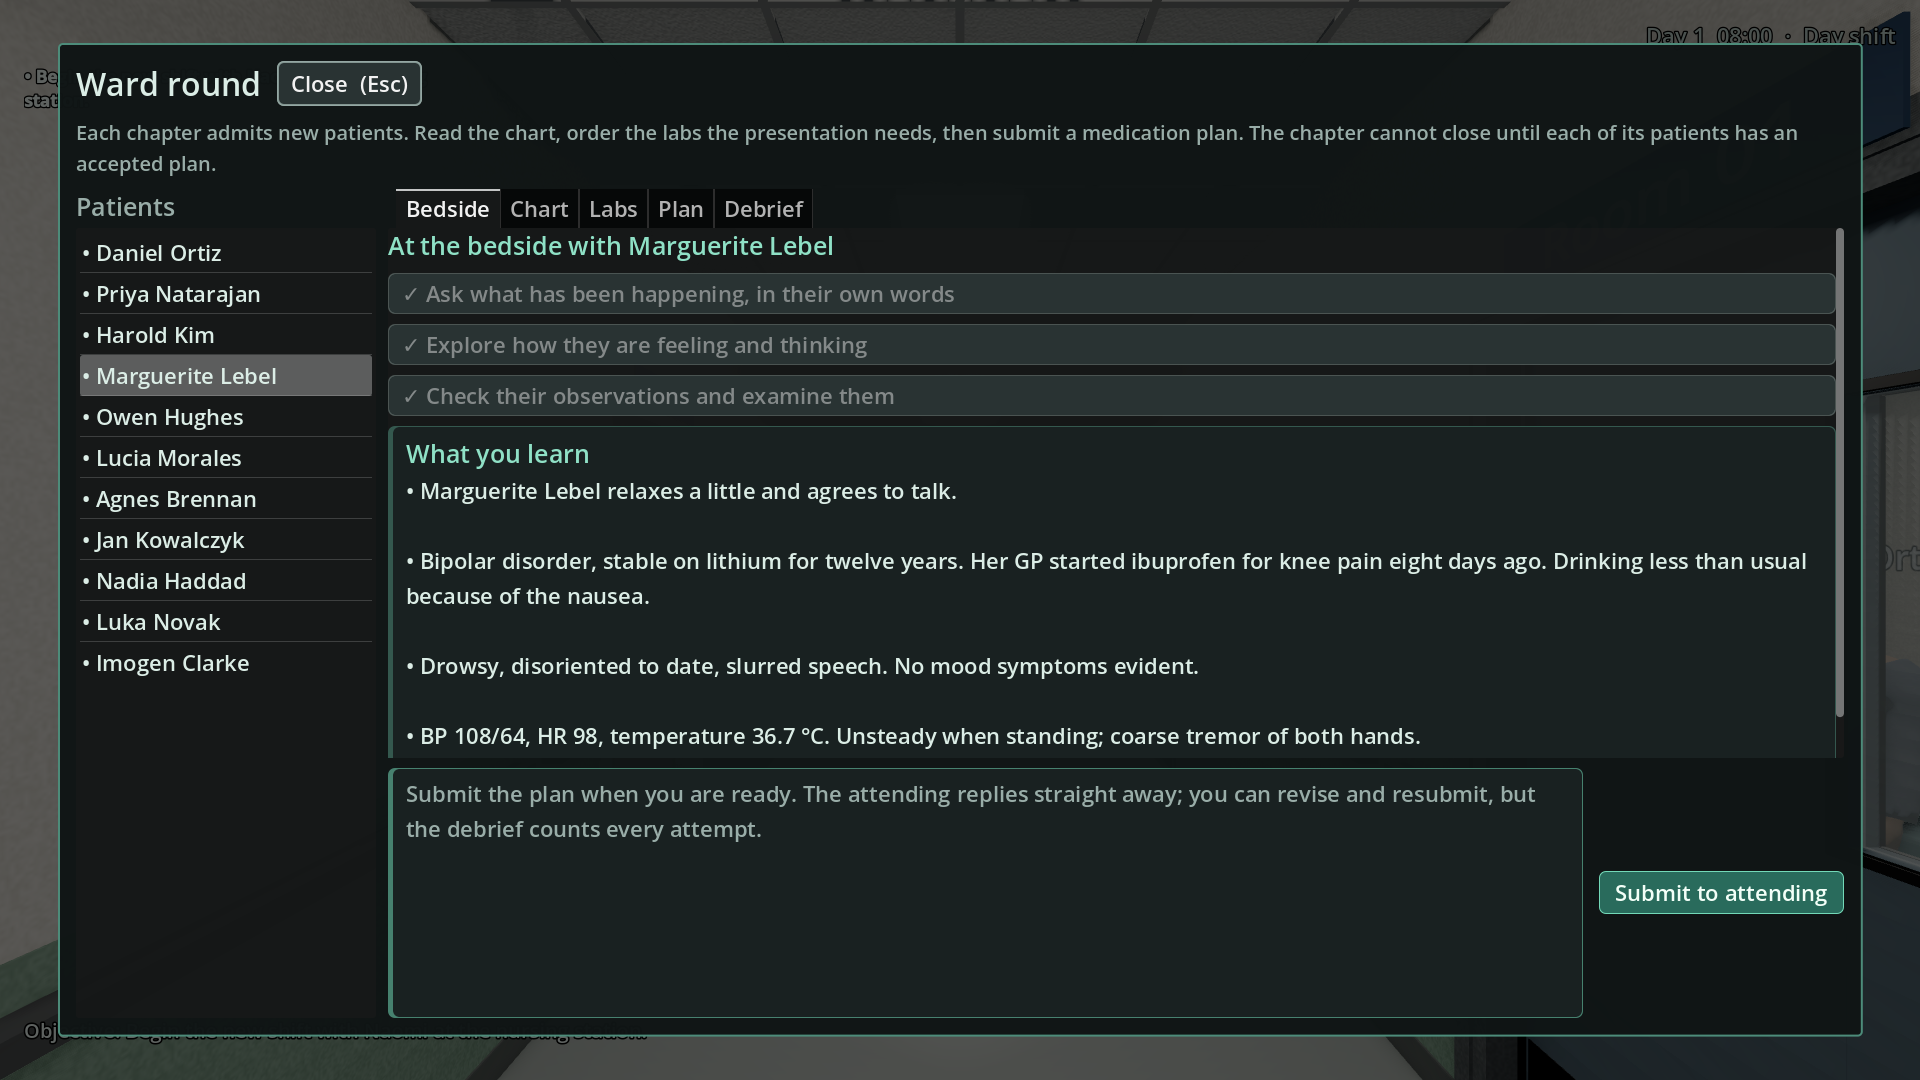
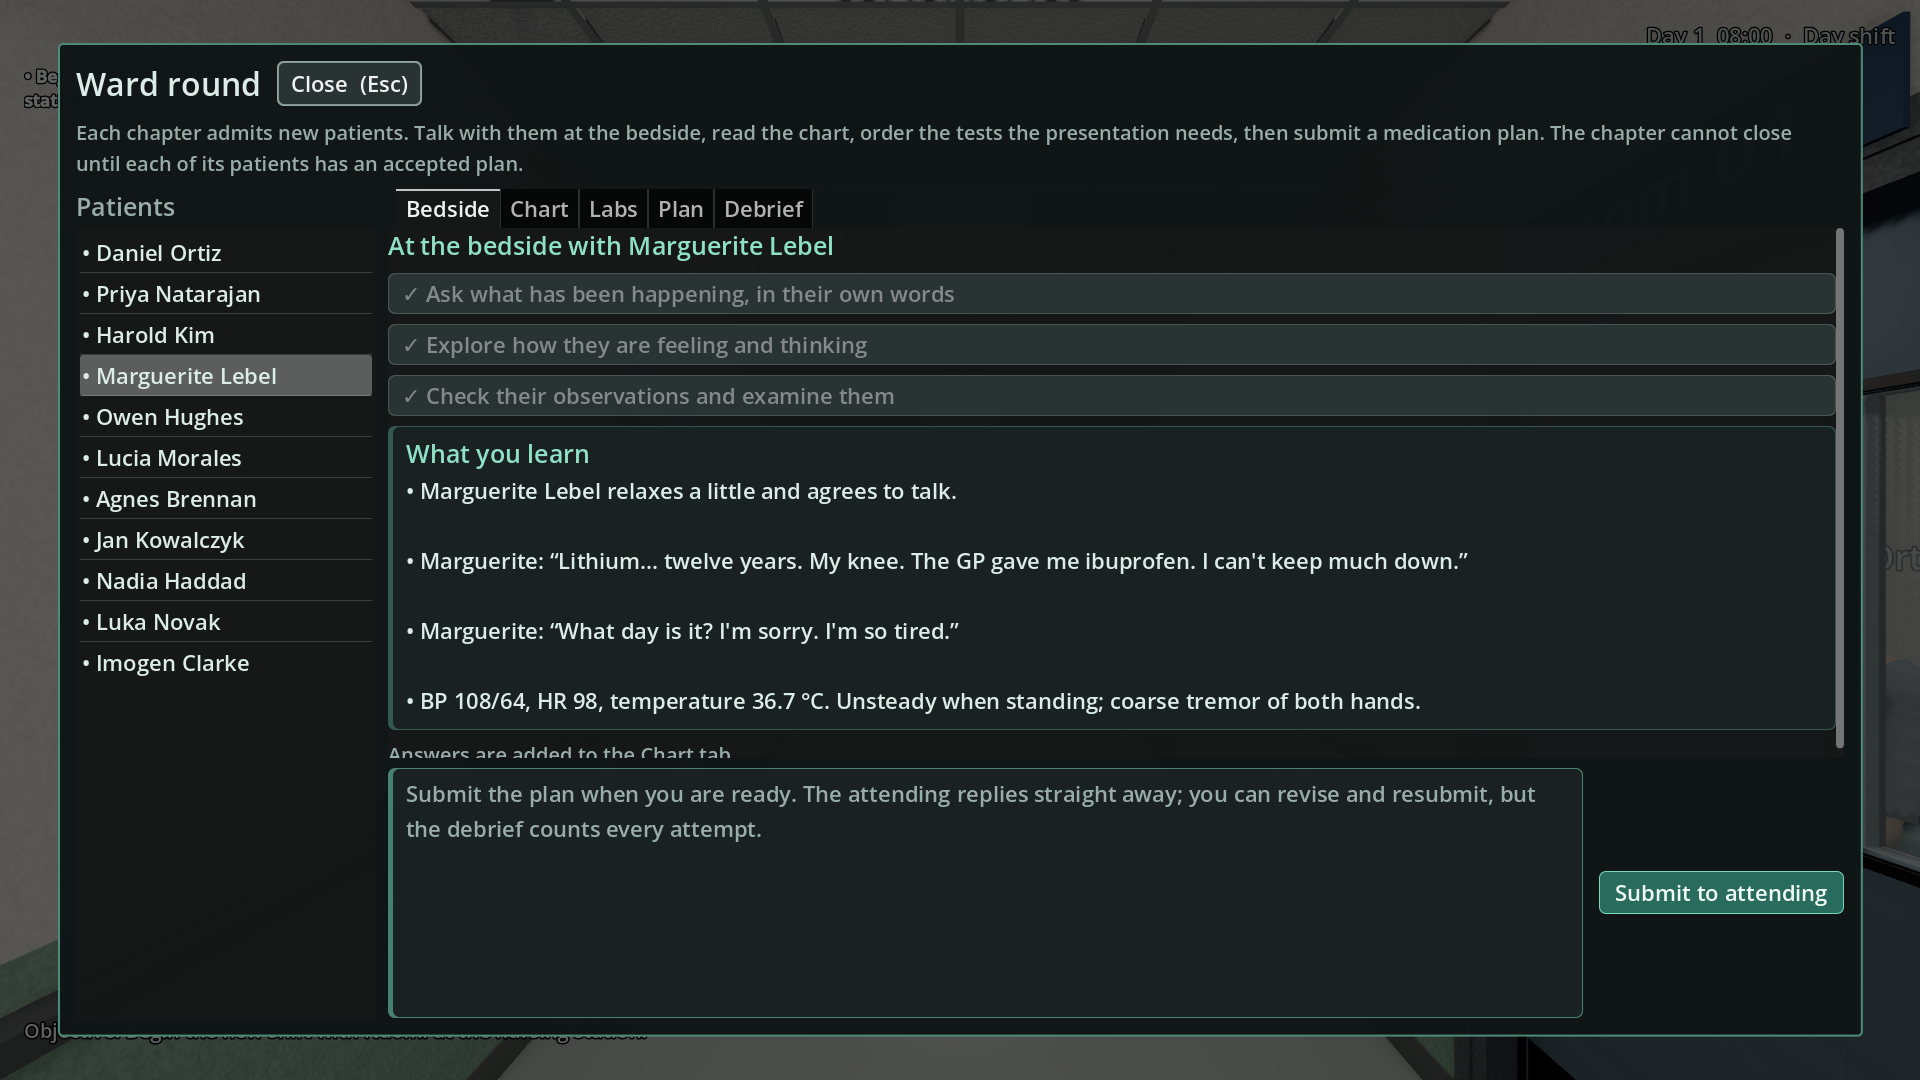
Ward rounds: patients answer bedside questions in their own words
Each case gets draft history and mental-state lines (pending review), shown
at the bedside as the patient's speech; the chart keeps the clinician's text.

Claude-Session: https://claude.ai/code/session_018yfydewyfGQxfDVfhVpzYB

diff --git a/docs/clinical_review_log.md b/docs/clinical_review_log.md
@@ -56,3 +56,4 @@ Bi (owner, executive producer, physician) in the Forensics Game project thread, 
 | 2026-11-03 | Third wave from the owner's case bible ("Psychiatry Case Files Vol. 1", uploaded 2026-11-03 16:00 UTC): eight new cases, Haddad (grief-related voice on falling asleep), Novak (OCD), Clarke (dissociative amnesia), Brooks (drug-induced parkinsonism vs Parkinson's disease), Mensah (capacity with delirium), Doyle (dementia with Lewy bodies, antipsychotic sensitivity), Reyes (functional seizures), Bell (encephalitis presenting as psychosis); Whitaker gains a referral label, required attention testing and helpful collateral; Morales gains a referral label; nine new assessments and tests (CT head, MRI brain, EEG, lumbar puncture, collateral, neurological examination, cognitive testing, physical examination, capacity assessment); four interventions; two catalog choices judged wrong for every patient ("record the symptoms as put on", unsafe; "argue the patient out of it", not indicated), which also apply to the approved cases | `data/ward_rounds.json`, `scripts/clinical/WardRoundCatalog.gd` | **Pending; no clinical approval granted** | | Owner asked to "adapt this to improve cases but adapt it to match current game play". The bible's six other concepts were already covered. The approved cases' answer keys are unchanged; referral labels for them are proposed in the review document, not applied. No doses or thresholds. Prototype build only, with a draft badge. |
 | 2026-11-03 | Ward-round debrief scoring from the owner's case bible (safety 40%, reasoning 25%, rapport 20%, resources 15%; unsafe or dismissive choices cap the grade); soft tests budget (required + helpful + 2); "Explain the working diagnosis and plan" now welcomed on every case (default acceptable, feedback "Telling the patient what you think is happening and what comes next builds trust."), including the approved cases where it was previously noted as not needed | `scripts/clinical/WardRoundScoring.gd`, `data/ward_rounds.json` `intervention_catalog` | **Pending; no clinical approval granted** | | Scores come only from each case's existing verdicts; they never decide acceptance, and no answer key changed. The point deductions are game tuning for the owner to adjust. |
 | 2026-11-03 | Ward-round bedside conversation: three openings (warm, direct, rushed) with generic patient responses, three questions that reveal each case's existing history, mental state and observations, a repair line and a low-trust reply; debrief penalties for a rushed or direct opening and for a plan sent before the history and mental state were heard | `data/ward_rounds.json` `bedside`, `scripts/clinical/WardRounds.gd`, `scripts/clinical/WardRoundScoring.gd` | **Pending; no clinical approval granted** | | Generic communication wording by Claude Code; answers are the cases' own chart text, so nothing new is said about any patient. Applies to every case, including the approved ones (the chart now fills in as you ask). |
+| 2026-11-03 | Patients' own spoken bedside answers: a history line and a mental-state line for each of the 28 ward-round cases, in the patient's voice; patients who cannot answer (Adeyemi, Okafor, and Quinn's history) get a bracketed description of what you see | `data/ward_rounds.json` `cases[].bedside_lines` | **Pending; no clinical approval granted** | | Drafted by Claude Code from each case's own history and mental-state text; no new clinical facts, doses or thresholds. The chart still shows the clinician's full text. Applies to the approved cases too, as voice only; their answer keys are unchanged. |

diff --git a/docs/AI_PROGRESS_TRACKER.md b/docs/AI_PROGRESS_TRACKER.md
@@ -6,7 +6,8 @@
 |---|---|---|---|---|---|
 | Patients seated in Rooms 01/02, approach opens case, next patient arrives | Done, draft PR | #115, #114 | `scripts/world/WardRoundBedside.gd`, `data/ward_round_bedside.json` | `test_ward_round_bedside` (7), captures | Bi plays on the Mac |
 | Patient models for all 28 ward-round cases | Draft, pending owner look | cast pipeline | `tools/blender/characters/cast/pt_wr_*.json`, `assets/exports/characters/*_v01_draft.glb` | GLB 199/0; captures ch1 to ch5 | Bi reviews the look |
-| Bedside conversation (opening sets trust, questions fill the chart, debrief counts it) | Done, draft PR | #119 | `WardRounds.gd`, `WardRoundScreen.gd`, `data/ward_rounds.json` `bedside` | `test_ward_round_conversation` (5), captures | Bi reviews wording; case-specific lines next |
+| Bedside conversation (opening sets trust, questions fill the chart, debrief counts it) | Done, draft PR #120 | #119 | `WardRounds.gd`, `WardRoundScreen.gd`, `data/ward_rounds.json` `bedside` | `test_ward_round_conversation` (5), captures | Bi reviews wording; case-specific lines next |
+| Patients answer in their own words (28 cases × history and mental-state lines) | Done, draft PR, pending Bi's review | #120 | `data/ward_rounds.json` `bedside_lines`, `WardRounds.bedside_line`, `WardRoundCatalog.validate_bedside_lines` | `test_ward_round_conversation` (7) | Bi reviews the lines |
 | Hair cards on 23 patients (strand strips over the cap) | Done, draft PR | #118 | `build_cast_member.py` `hair.cards` | GLB 199/0, in-game capture | Bi looks at the hair |
 | Older/greying/heavier patient looks (age marks, grey hair, receding temples, weight at any age); 15 rebuilt | Done, draft PR | #117 | `build_cast_member.py`, `pt_wr_*.json` | GLB 199/0, before/after sheet | Bi looks at the faces |
 | Case bible third wave (8 cases, referral labels, bedside assessments, wrong-for-everyone choices) | Done on #115, pending Bi's clinical review | #115 | `data/ward_rounds.json`, `WardRoundCatalog.gd` | `test_ward_rounds` | Bi reviews in the review doc |

diff --git a/docs/AI_HANDOFF.md b/docs/AI_HANDOFF.md
@@ -20,6 +20,7 @@ One row per branch that someone is working on. Claim the folders or files you wi
 
 | Workstream | Branch | Agent / session | Latest verified commit | Claimed files | State |
 |---|---|---|---|---|---|
+| Ward-round patient voices | `claude/ward-round-patient-voices` (draft PR to `claude/ward-round-bedside-talk`) | Claude Code (cloud) | last commit on the branch | `data/ward_rounds.json` `bedside_lines`, `WardRounds.gd`, `WardRoundCatalog.gd`, `test_ward_round_conversation.gd` | Full QA passed; lines pending Bi's review |
 | Ward-round bedside conversation | `claude/ward-round-bedside-talk` (draft PR to `claude/patient-hair-cards`) | Claude Code (cloud) | last commit on the branch | `WardRounds.gd`, `WardRoundCatalog.gd`, `WardRoundScoring.gd`, `WardRoundScreen.gd`, `data/ward_rounds.json` `bedside`, `test_ward_round_conversation.gd`, capture tool | Full QA passed; waiting on Bi |
 | Patient hair cards | `claude/patient-hair-cards` (draft PR to `claude/patient-model-ageing`) | Claude Code (cloud) | last commit on the branch | `build_cast_member.py` (`hair.cards`), 23 `pt_wr_*` configs and outputs | Full QA passed; waiting on Bi's look |
 | Patient looks: age, grey hair, weight | `claude/patient-model-ageing` (draft PR to `claude/ward-round-scoring`) | Claude Code (cloud) | see Log | `tools/blender/characters/build_cast_member.py` (opt-in options), 15 `pt_wr_*` configs and their outputs | Full QA passed; waiting on Bi's look |

diff --git a/docs/handoffs/2026-11-03_claude_ward_round_patient_voices.md b/docs/handoffs/2026-11-03_claude_ward_round_patient_voices.md
@@ -1,0 +1,11 @@
+# Handoff: ward-round patients answer in their own words (Claude Code, 2026-11-03)
+
+- Branch: `claude/ward-round-patient-voices`, stacked on `claude/ward-round-bedside-talk` (#120). Draft PR; do not merge until the stack is reviewed.
+- What changed:
+  - `data/ward_rounds.json`: every case has `bedside_lines` {review_status PENDING_PSYCHIATRIST_REVIEW, history, mental_state}. Lines restate only the case's own history and mental-state text in the patient's voice. A line in brackets describes a patient who cannot answer (Adeyemi, Okafor, Quinn's history).
+  - `WardRounds.bedside_line(case_id, question_id)`: "First name: “line”", the bracketed text as is, or "" (the answer then falls back to the chart text). `ask_bedside` returns it; the chart still fills with the clinician's full text.
+  - `WardRoundCatalog.validate_bedside_lines`: status, known question ids, non-empty lines; called for each case that has lines.
+  - Tests: `test_ward_round_conversation.gd` now 7 tests.
+- Clinical: pending Bi's review (row in `docs/clinical_review_log.md`). Approved cases' answer keys are unchanged.
+- Next: Bi reviews the lines; revise wording from her notes.
+- Tests: full QA passed (game 408/0, audio 1720/0, QA 19/0/0, GLB 199/0, Chapter 1 sequence done, exit 0). Not tested on the Mac. The capture tool timed out after the bedside screens under software rendering; only bedside_answers.png was refreshed.

diff --git a/docs/AI_SESSION_HANDOFF.md b/docs/AI_SESSION_HANDOFF.md
@@ -2,6 +2,7 @@
 
 ## Claude Code ward-round patients on the ward — 2026-11-03
 
+- Newest of all: `claude/ward-round-patient-voices` (draft PR stacked on #120): each patient answers bedside questions in their own words (`cases[].bedside_lines`, pending Bi's review); the chart keeps the clinician's text. Full QA passed: game 408/0, audio 1720/0, QA 19/0/0, GLB 199/0, exit 0. Next: Bi reviews the lines (`/mnt/project-files/ward_round/bedside_lines_review.md`). See `docs/handoffs/2026-11-03_claude_ward_round_patient_voices.md`.
 - Most recent: `claude/ward-round-bedside-talk` (draft PR #120, stacked on #119): bedside conversation. Full QA passed: game 406/0, exit 0. Next: Bi reviews; case-specific voiced lines would need reviewed writing. See `docs/handoffs/2026-11-03_claude_ward_round_bedside_talk.md`.
 - Newest: `claude/patient-hair-cards` (draft PR on #118): hair cards on 23 patients. Full QA passed: game 401/0, GLB 199/0, exit 0. Next: story/interactivity (bedside conversation proposed to Bi). See `docs/handoffs/2026-11-03_claude_patient_hair_cards.md`.
 - Latest: `claude/patient-model-ageing` (draft PR on #117): 15 patients rebuilt older/greying/heavier via new opt-in builder options. Full QA passed: game 401/0, GLB 199/0, exit 0. Next: Bi looks at the before/after sheet; real hair cards would be the next model step. See `docs/handoffs/2026-11-03_claude_patient_model_ageing.md`.

diff --git a/docs/PROJECT_STATUS.md b/docs/PROJECT_STATUS.md
@@ -1,3 +1,5 @@
+**Patients' own words at the bedside (Claude Code, 2026-11-03; draft PR, not merged):** `claude/ward-round-patient-voices` on #120. Each ward-round patient now answers bedside questions in their own voice (draft lines pending Bi's review); the chart still records the clinician's full account. Not tested on the Mac.
+
 **Bedside conversation (Claude Code, 2026-11-03; draft PR, not merged):** `claude/ward-round-bedside-talk` on #119. Ward-round patients are now met at the bedside first: how you open the conversation sets their trust, your questions fill in the chart, and the debrief counts both. Full QA passed (game 406/0). Not tested on the Mac.
 
 **Patient hair (Claude Code, 2026-11-03; draft PR, not merged):** `claude/patient-hair-cards` on #118. 23 ward-round patients now have strand hair cards over the scalp cap (ponytails read from the side; short hair shows strands instead of a solid cap). Full QA passed (game 401/0, GLB 199/0). Not tested on the Mac.
